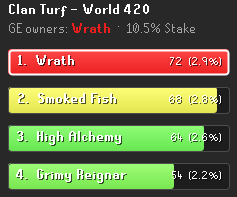
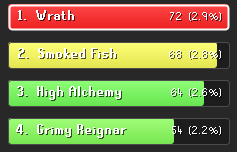
update readme images

diff --git a/README.md b/README.md
@@ -24,6 +24,8 @@ When a clan takes the GE lead, the boundary rises into a colored wall before set
 
 Parts of the Grand Exchange aren't walkable - the central building, the stalls, the staircases. Rather than leave holes in a clan's territory, Clan Turf fills those pockets in the current owner's color (white while the GE is unclaimed) so turf reads as one solid block, and they recolor on takeover right along with the boundary. Purely cosmetic: these tiles are never claimable and never counted. Turn it off with **Show Pre-Claims**.
 
+![Pre-claims](images/preclaims.png)
+
 ## Live scoreboard
 
 The side panel ranks every clan on your world by tiles held, with each clan's share of the GE. The bars slide into place as the fight unfolds.
@@ -35,6 +37,8 @@ The side panel ranks every clan on your world by tiles held, with each clan's sh
 Every clan is auto-assigned its own color, but you can override any of them. Hover a bar in the side panel to highlight it and click to open the color wheel - pick a color for your own clan or a rival's. Your picks are saved to a local color list you can copy and paste to share a whole palette with clanmates. It's all local, so everyone else still sees their own colors.
 
 Colorblind? A **Colorblind** mode in the settings adjusts every clan color, auto and custom alike, to be easier to tell apart - protanopia, deuteranopia, or tritanopia.
+
+![Colorblind](images/colorblind.png)
 
 ## Active battles
 
@@ -101,11 +105,15 @@ The **Tiles/hour tracker** shows **Tiles Claimed**, **Current TPH**, and **Max T
 - **Snail trail** - Leave a fading clan-colored trail behind you. Does not affect claims or TPH.
 - **Tile walls** - Toggle all raised wall effects: tile captures, takeovers, and the snail trail.
 
+![Appearance settings](images/configappearance.png)
+
 ### Takeover
 
 - **Border animation** - On a takeover, raise the boundary into a wall, or just fade it to the new color (flat).
 - **Announce takeovers** - Post a clan-tab message when the GE changes hands.
 - **Takeover sound** / **Takeover volume** - Play a cue on takeover, and set how loud.
+
+![Takeover settings](images/configtakeover.png)
 
 ### Clan
 
@@ -114,15 +122,21 @@ The **Tiles/hour tracker** shows **Tiles Claimed**, **Current TPH**, and **Max T
 - **Clan color list** - Per-clan colors for the live game as `ClanName=RRGGBB`, comma-separated. Set them by clicking bars in the side panel while online; copy and paste to share.
 - **Offline color list** - Same format, but for the offline sandbox only, so test-clan colors stay out of the shareable list.
 
+![Clan settings](images/configclan.png)
+
 ### Network
 
 - **Use sync server** - Sync with other clans so the war is live (on by default). Off for local-only, nothing sent.
+
+![Network settings](images/confignetwork.png)
 
 ### Extras
 
 - **Reset countdown** - Show the countdown and clan warnings before the daily reset.
 - **Tiles/hour tracker** - Show the tiles-claimed and TPH overlay. Shift + right-click to reset.
 - **Colorblind** - Daltonize all clan colors for easier separation: protanopia, deuteranopia, or tritanopia.
+
+![Extras settings](images/configextras.png)
 
 ## Notes
 
